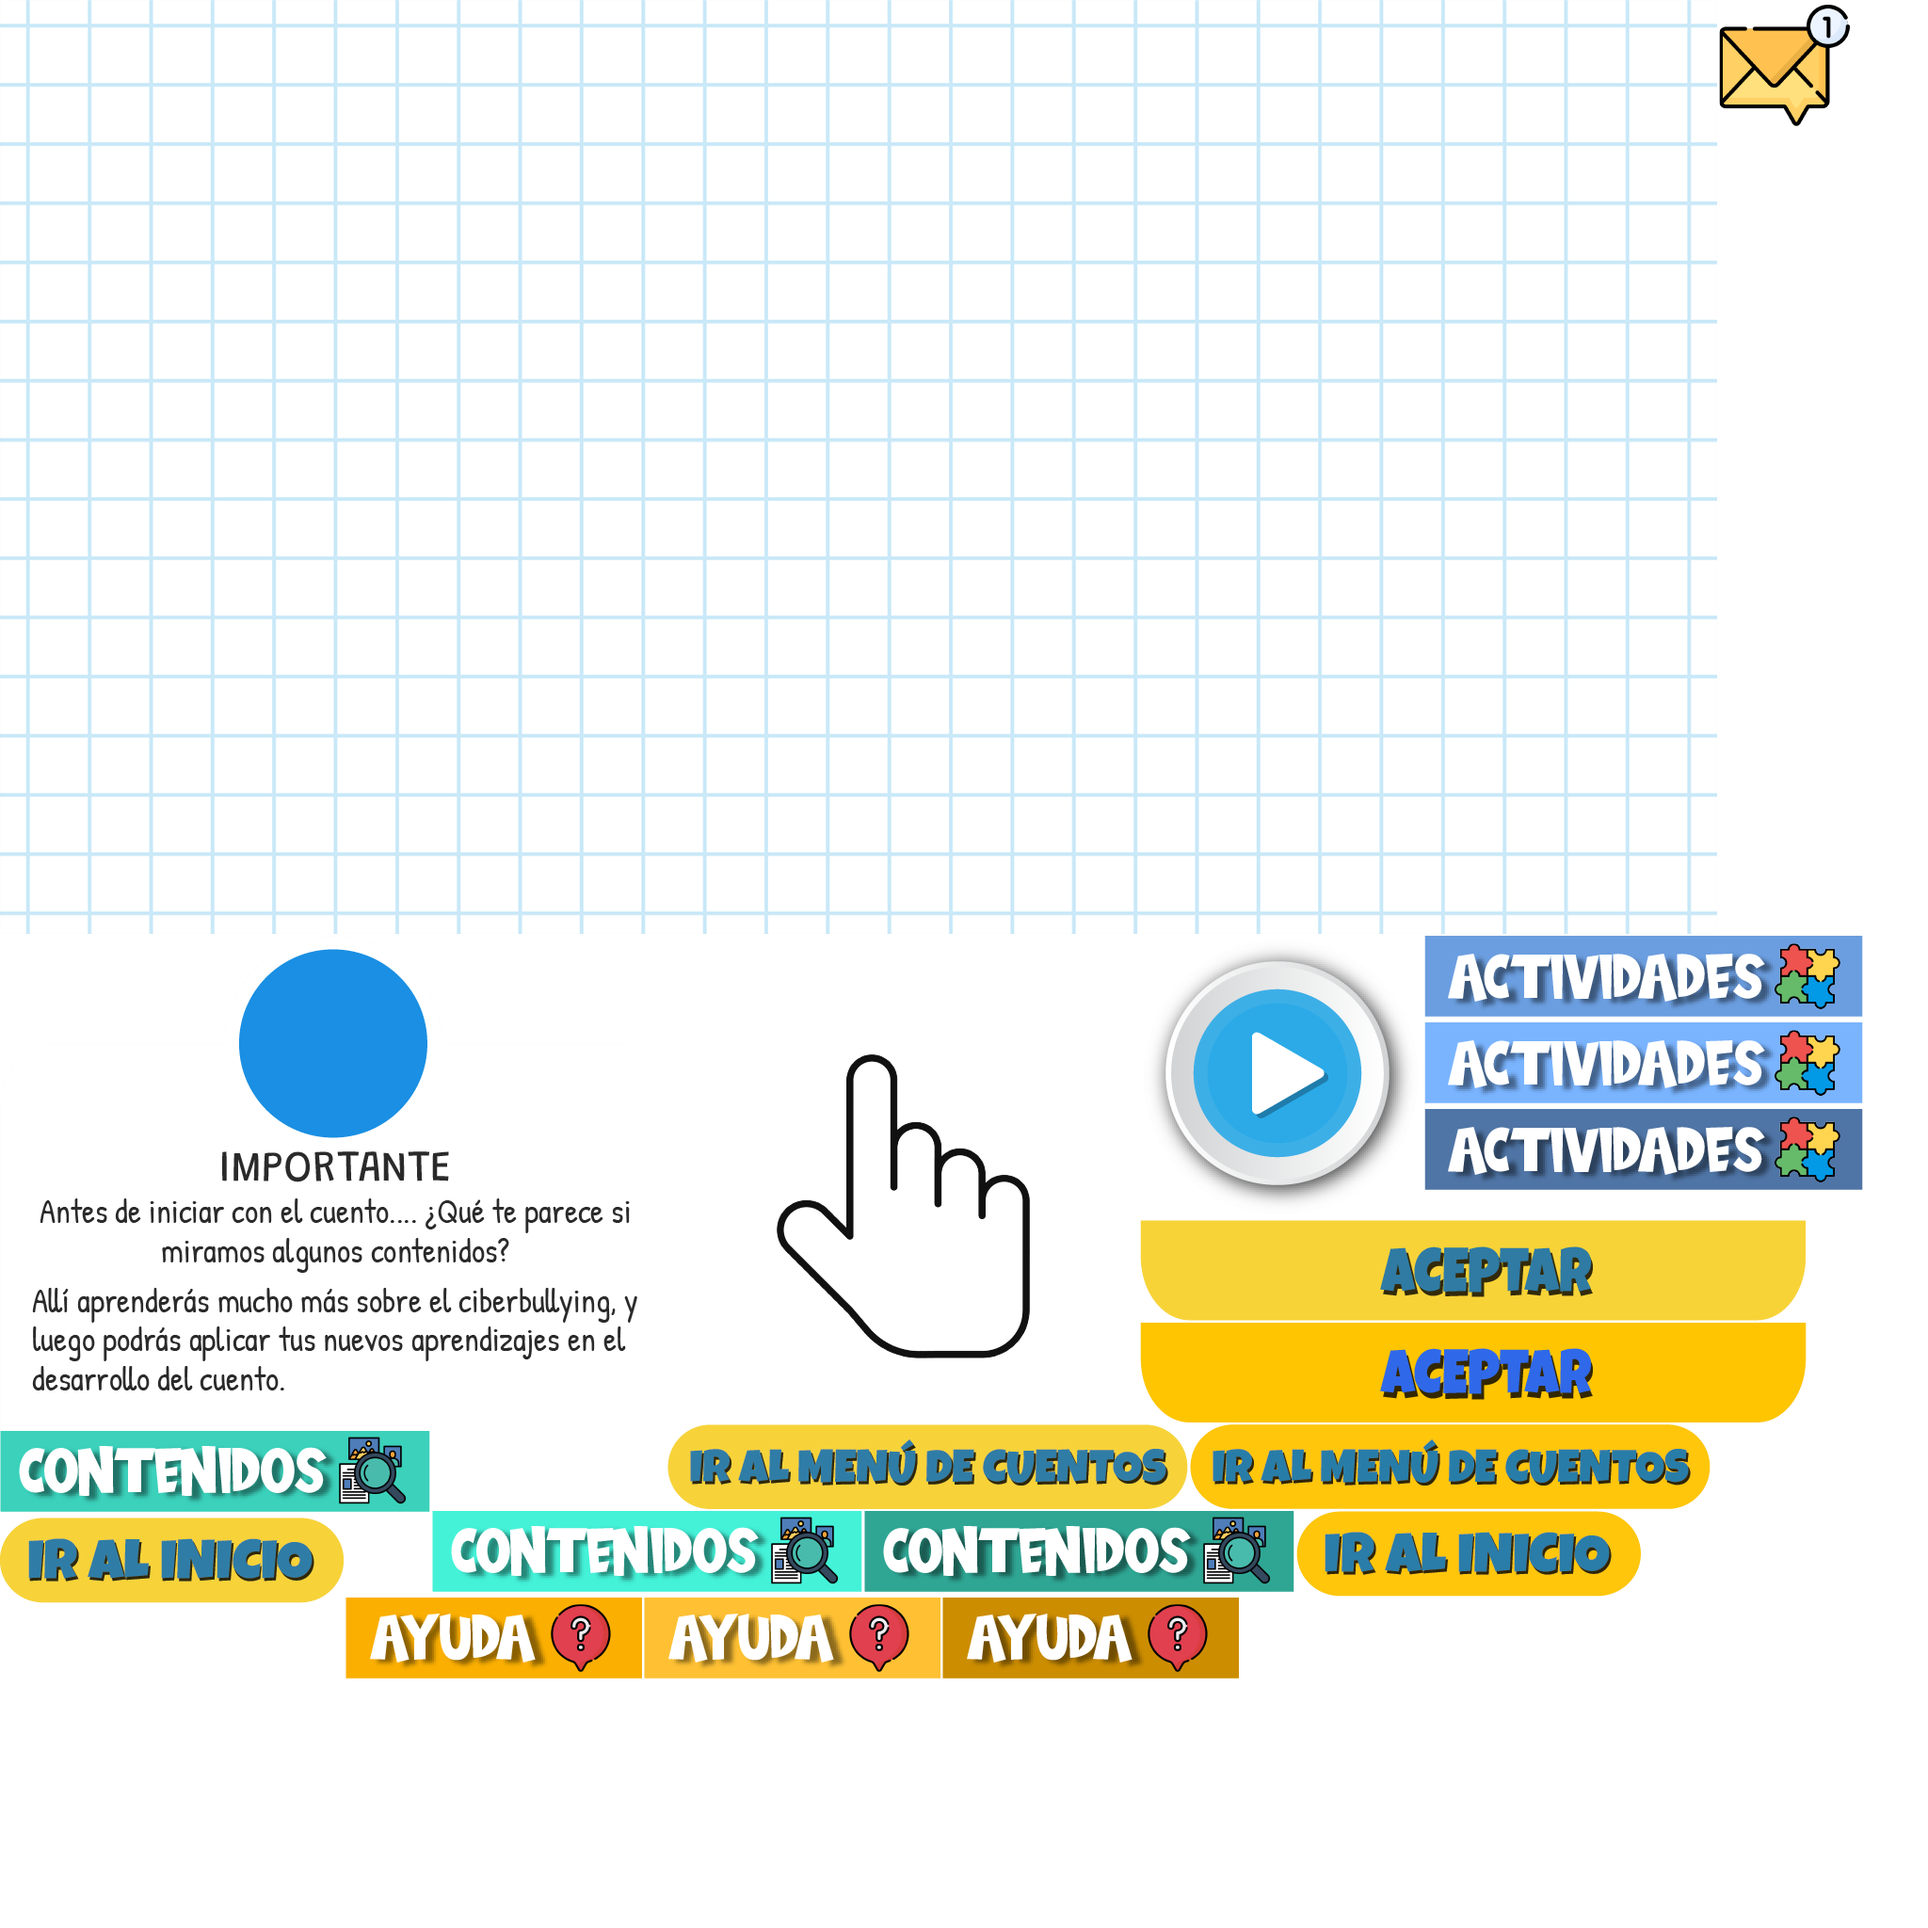
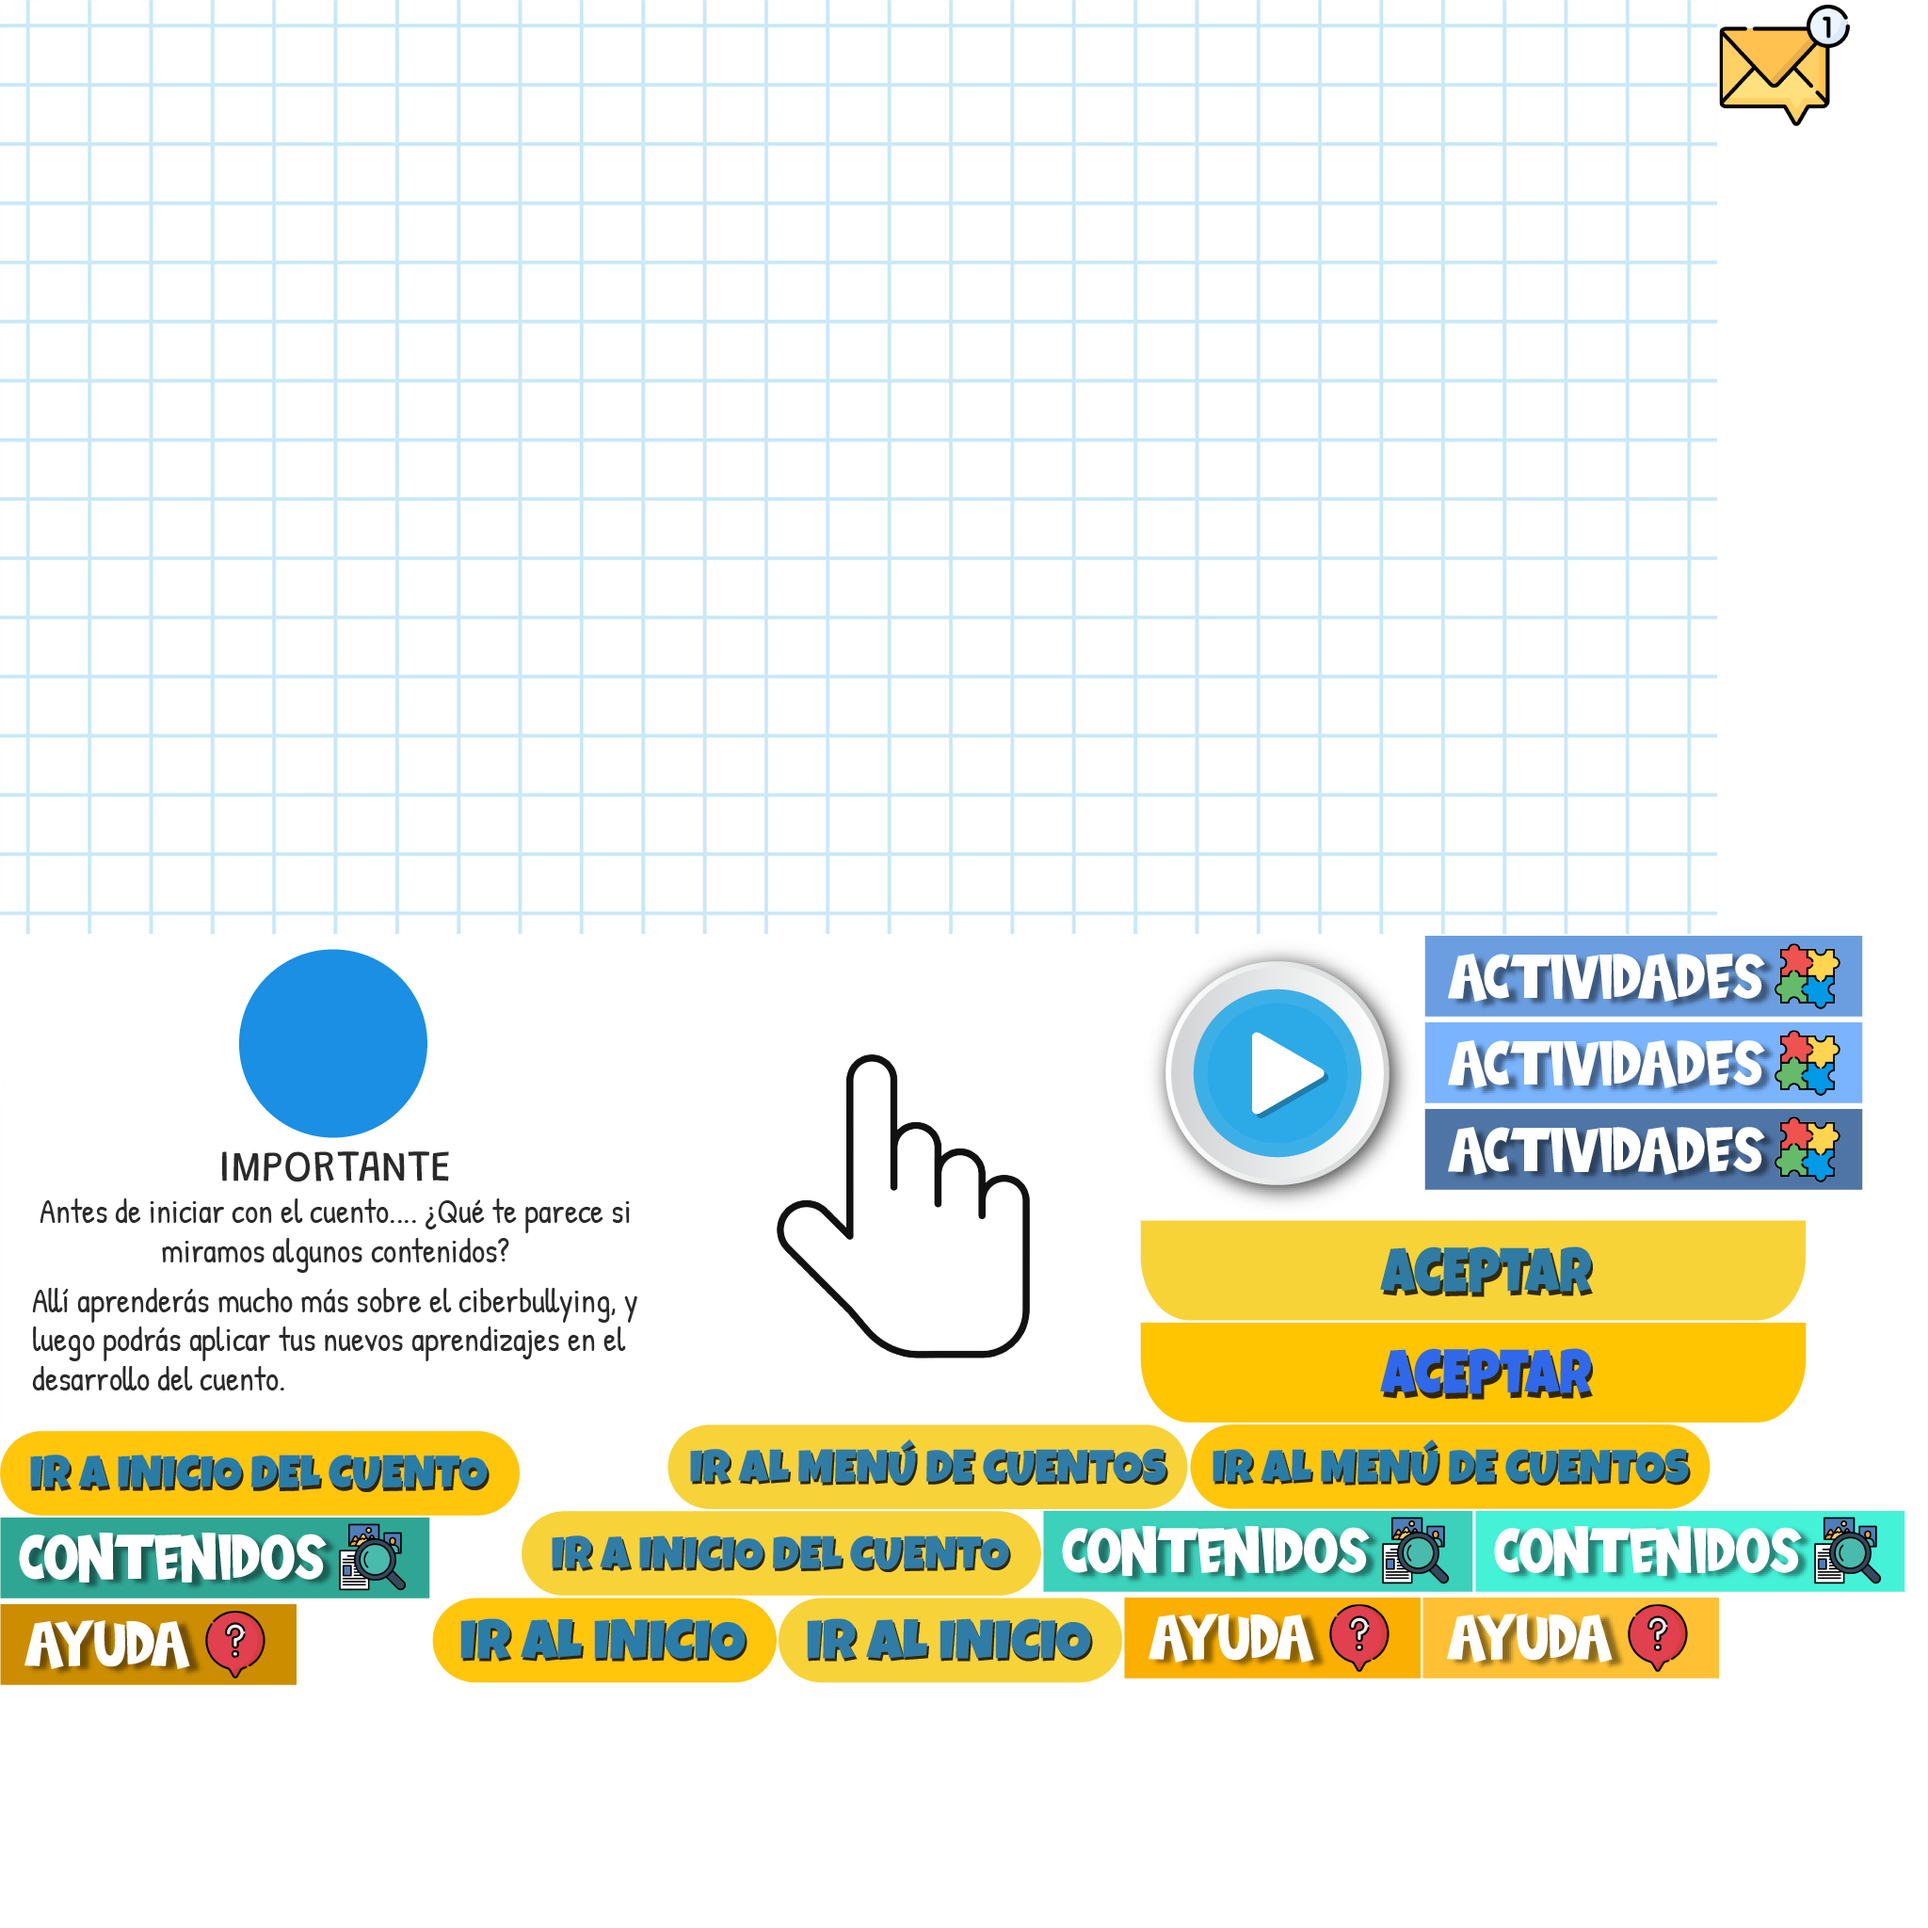
all

Changed region(s): [[0.0, 0.7188, 1.0, 0.875]]

diff --git a/PantallaBienvenida/MenuPrincipal/El_patito_feo/index.js b/PantallaBienvenida/MenuPrincipal/El_patito_feo/index.js
@@ -3,7 +3,7 @@
 var p; // shortcut to reference prototypes
 var lib={};var ss={};var img={};
 lib.ssMetadata = [
-		{name:"index_atlas_1", frames: [[1513,994,466,90],[367,1697,315,90],[0,1520,457,90],[1513,1086,466,90],[684,1697,315,90],[459,1605,457,90],[1513,1178,466,90],[1001,1697,315,90],[918,1605,457,90],[1211,1405,708,106],[1211,1296,707,107],[1211,994,300,300],[0,1612,365,91],[1377,1605,366,91],[709,1513,553,90],[1264,1513,553,90],[0,0,1824,992],[1826,0,140,139],[709,994,500,500],[0,994,707,524]]}
+		{name:"index_atlas_1", frames: [[1513,994,466,90],[1194,1697,315,90],[1108,1605,457,90],[1513,1086,466,90],[1511,1697,315,90],[1567,1605,457,90],[1513,1178,466,90],[0,1704,315,90],[0,1612,457,90],[1211,1405,708,106],[1211,1296,707,107],[1211,994,300,300],[0,1520,552,90],[827,1697,365,91],[554,1605,552,90],[459,1697,366,91],[709,1513,553,90],[1264,1513,553,90],[0,0,1824,992],[1826,0,140,139],[709,994,500,500],[0,994,707,524]]}
 ];
 
 
@@ -123,37 +123,51 @@ p.nominalBounds = new cjs.Rectangle(0,0,2373,154);
 
 
 
-(lib.btnIrInicio = function() {
+(lib.BtnInicioCuentoHover = function() {
 	this.initialize(ss["index_atlas_1"]);
 	this.gotoAndStop(12);
 }).prototype = p = new cjs.Sprite();
 
 
 
-(lib.btnIrInicioHover = function() {
+(lib.btnIrInicio = function() {
 	this.initialize(ss["index_atlas_1"]);
 	this.gotoAndStop(13);
 }).prototype = p = new cjs.Sprite();
 
 
 
-(lib.btnMenuCuentos = function() {
+(lib.btnIrInicioCuento = function() {
 	this.initialize(ss["index_atlas_1"]);
 	this.gotoAndStop(14);
 }).prototype = p = new cjs.Sprite();
 
 
 
-(lib.btnMenuCuentosHover = function() {
+(lib.btnIrInicioHover = function() {
 	this.initialize(ss["index_atlas_1"]);
 	this.gotoAndStop(15);
 }).prototype = p = new cjs.Sprite();
 
 
 
-(lib.fondopapel1 = function() {
+(lib.btnMenuCuentos = function() {
 	this.initialize(ss["index_atlas_1"]);
 	this.gotoAndStop(16);
+}).prototype = p = new cjs.Sprite();
+
+
+
+(lib.btnMenuCuentosHover = function() {
+	this.initialize(ss["index_atlas_1"]);
+	this.gotoAndStop(17);
+}).prototype = p = new cjs.Sprite();
+
+
+
+(lib.fondopapel1 = function() {
+	this.initialize(ss["index_atlas_1"]);
+	this.gotoAndStop(18);
 }).prototype = p = new cjs.Sprite();
 
 
@@ -172,21 +186,21 @@ p.nominalBounds = new cjs.Rectangle(0,0,2376,1136);
 
 (lib.icono = function() {
 	this.initialize(ss["index_atlas_1"]);
-	this.gotoAndStop(17);
+	this.gotoAndStop(19);
 }).prototype = p = new cjs.Sprite();
 
 
 
 (lib.mano2 = function() {
 	this.initialize(ss["index_atlas_1"]);
-	this.gotoAndStop(18);
+	this.gotoAndStop(20);
 }).prototype = p = new cjs.Sprite();
 
 
 
 (lib.Mensaje = function() {
 	this.initialize(ss["index_atlas_1"]);
-	this.gotoAndStop(19);
+	this.gotoAndStop(21);
 }).prototype = p = new cjs.Sprite();
 
 
@@ -270,19 +284,11 @@ if (reversed == null) { reversed = false; }
 	props.reversed = reversed;
 	cjs.MovieClip.apply(this,[props]);
 
-	// timeline functions:
-	this.frame_2 = function() {
-		playSound("sound2");
-	}
-
-	// actions tween:
-	this.timeline.addTween(cjs.Tween.get(this).wait(2).call(this.frame_2).wait(1));
-
 	// Capa_1
-	this.instance = new lib.btnMenuCuentos();
+	this.instance = new lib.btnIrInicioCuento();
 	this.instance.setTransform(322,-21,0.5,0.5);
 
-	this.instance_1 = new lib.btnMenuCuentosHover();
+	this.instance_1 = new lib.BtnInicioCuentoHover();
 	this.instance_1.setTransform(322,-21,0.5,0.5);
 
 	this.timeline.addTween(cjs.Tween.get({}).to({state:[{t:this.instance}]}).to({state:[{t:this.instance_1}]},1).to({state:[{t:this.instance}]},1).wait(1));
@@ -290,7 +296,7 @@ if (reversed == null) { reversed = false; }
 	this._renderFirstFrame();
 
 }).prototype = p = new cjs.MovieClip();
-p.nominalBounds = new cjs.Rectangle(322,-21,276.5,45);
+p.nominalBounds = new cjs.Rectangle(322,-21,276,45);
 
 
 (lib.btnVolver = function(mode,startPosition,loop,reversed) {
@@ -855,7 +861,7 @@ if (reversed == null) { reversed = false; }
 
 	this.btnVolverAcuento = new lib.btnVolverAcuento();
 	this.btnVolverAcuento.name = "btnVolverAcuento";
-	this.btnVolverAcuento.setTransform(148.8,741.45,1,1,0,0,0,460.2,1.5);
+	this.btnVolverAcuento.setTransform(149.8,741.45,1,1,0,0,0,460.2,1.5);
 	new cjs.ButtonHelper(this.btnVolverAcuento, 0, 1, 2);
 
 	this.timeline.addTween(cjs.Tween.get({}).to({state:[{t:this.instance_7}]}).to({state:[{t:this.btnVolverAcuento}]},13).wait(4));
@@ -886,15 +892,15 @@ lib.properties = {
 	color: "#225693",
 	opacity: 0.00,
 	manifest: [
-		{src:"images/bannernegro1.png?1677299338312", id:"bannernegro1"},
-		{src:"images/barraseguredes.png?1677299338312", id:"barraseguredes"},
-		{src:"images/fondo11.png?1677299338312", id:"fondo11"},
-		{src:"images/fondoMorado.png?1677299338312", id:"fondoMorado"},
-		{src:"images/Portada.png?1677299338312", id:"Portada"},
-		{src:"images/index_atlas_1.png?1677299338231", id:"index_atlas_1"},
-		{src:"sounds/sound2.mp3?1677299338312", id:"sound2"},
-		{src:"sounds/SoundPlay.mp3?1677299338312", id:"SoundPlay"},
-		{src:"sounds/sound1.mp3?1677299338312", id:"sound1"}
+		{src:"images/bannernegro1.png?1677300769692", id:"bannernegro1"},
+		{src:"images/barraseguredes.png?1677300769692", id:"barraseguredes"},
+		{src:"images/fondo11.png?1677300769692", id:"fondo11"},
+		{src:"images/fondoMorado.png?1677300769692", id:"fondoMorado"},
+		{src:"images/Portada.png?1677300769692", id:"Portada"},
+		{src:"images/index_atlas_1.png?1677300769608", id:"index_atlas_1"},
+		{src:"sounds/sound2.mp3?1677300769692", id:"sound2"},
+		{src:"sounds/SoundPlay.mp3?1677300769692", id:"SoundPlay"},
+		{src:"sounds/sound1.mp3?1677300769692", id:"sound1"}
 	],
 	preloads: []
 };

diff --git a/PantallaBienvenida/MenuPrincipal/El_patito_feo/Actividades/Menu/index.html b/PantallaBienvenida/MenuPrincipal/El_patito_feo/Actividades/Menu/index.html
@@ -13,19 +13,8 @@
 <meta name="authoring-tool" content="Adobe_Animate_CC">
 <title>index</title>
 <!-- write your code here -->
-<style>
-  body {
-	overflow:hidden;
-  }
-  #animation_container, #_preload_div_ {
-	position:absolute;
-	margin:auto;
-	left:-100%;right:-100%;
-	top:-100%;bottom:-100%;
-  }
-</style>
 <script src="https://code.createjs.com/1.0.0/createjs.min.js"></script>
-<script src="index.js?1677293600075"></script>
+<script src="index.js?1677300754112"></script>
 <script>
 var canvas, stage, exportRoot, anim_container, dom_overlay_container, fnStartAnimation;
 function init() {
@@ -67,7 +56,7 @@ function handleComplete(evt,comp) {
 		createjs.Ticker.addEventListener("tick", stage);
 	}	    
 	//Code to support hidpi screens and responsive scaling.
-	AdobeAn.makeResponsive(true,'both',true,2,[canvas,preloaderDiv,anim_container,dom_overlay_container]);	
+	AdobeAn.makeResponsive(false,'both',false,2,[canvas,preloaderDiv,anim_container,dom_overlay_container]);	
 	AdobeAn.compositionLoaded(lib.properties.id);
 	fnStartAnimation();
 }
@@ -82,6 +71,6 @@ function playSound(id, loop, offset) {
 		<div id="dom_overlay_container" style="pointer-events:none; overflow:hidden; width:1189px; height:649px; position: absolute; left: 0px; top: 0px; display: none;">
 		</div>
 	</div>
-    <div id='_preload_div_' style='position:absolute; top:0; left:0; display: inline-block; height:649px; width: 1189px; text-align: center;'>	<span style='display: inline-block; height: 100%; vertical-align: middle;'></span>	<img src=images/_preloader.gif?1677293600075 style='vertical-align: middle; max-height: 100%'/></div>
+    <div id='_preload_div_' style='position:absolute; top:0; left:0; display: inline-block; height:649px; width: 1189px; text-align: center;'>	<span style='display: inline-block; height: 100%; vertical-align: middle;'></span>	<img src=images/_preloader.gif?1677300754112 style='vertical-align: middle; max-height: 100%'/></div>
 </body>
 </html>

diff --git a/PantallaBienvenida/MenuPrincipal/El_patito_feo/Actividades/Menu/index.js b/PantallaBienvenida/MenuPrincipal/El_patito_feo/Actividades/Menu/index.js
@@ -1537,13 +1537,13 @@ lib.properties = {
 	color: "#235594",
 	opacity: 0.00,
 	manifest: [
-		{src:"images/index_atlas_1.png?1677293599888", id:"index_atlas_1"},
-		{src:"sounds/entrar.mp3?1677293600009", id:"entrar"},
-		{src:"sounds/error.mp3?1677293600009", id:"error"},
-		{src:"sounds/y2matecomsonidodemagiaefectohadas.mp3?1677293600009", id:"y2matecomsonidodemagiaefectohadas"},
-		{src:"https://code.jquery.com/jquery-3.4.1.min.js?1677293600009", id:"lib/jquery-3.4.1.min.js"},
-		{src:"components/sdk/anwidget.js?1677293600009", id:"sdk/anwidget.js"},
-		{src:"components/ui/src/textinput.js?1677293600009", id:"an.TextInput"}
+		{src:"images/index_atlas_1.png?1677300753951", id:"index_atlas_1"},
+		{src:"sounds/entrar.mp3?1677300754056", id:"entrar"},
+		{src:"sounds/error.mp3?1677300754056", id:"error"},
+		{src:"sounds/y2matecomsonidodemagiaefectohadas.mp3?1677300754056", id:"y2matecomsonidodemagiaefectohadas"},
+		{src:"https://code.jquery.com/jquery-3.4.1.min.js?1677300754056", id:"lib/jquery-3.4.1.min.js"},
+		{src:"components/sdk/anwidget.js?1677300754056", id:"sdk/anwidget.js"},
+		{src:"components/ui/src/textinput.js?1677300754056", id:"an.TextInput"}
 	],
 	preloads: []
 };

diff --git a/PantallaBienvenida/MenuPrincipal/El_patito_feo/index.html b/PantallaBienvenida/MenuPrincipal/El_patito_feo/index.html
@@ -22,7 +22,7 @@
   }
 </style>
 <script src="https://code.createjs.com/1.0.0/createjs.min.js"></script>
-<script src="index.js?1677299338350"></script>
+<script src="index.js?1677300769731"></script>
 <script>
 var canvas, stage, exportRoot, anim_container, dom_overlay_container, fnStartAnimation;
 function init() {
